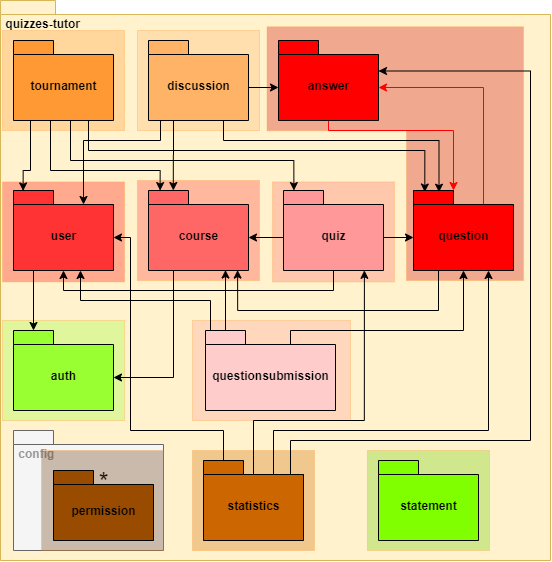
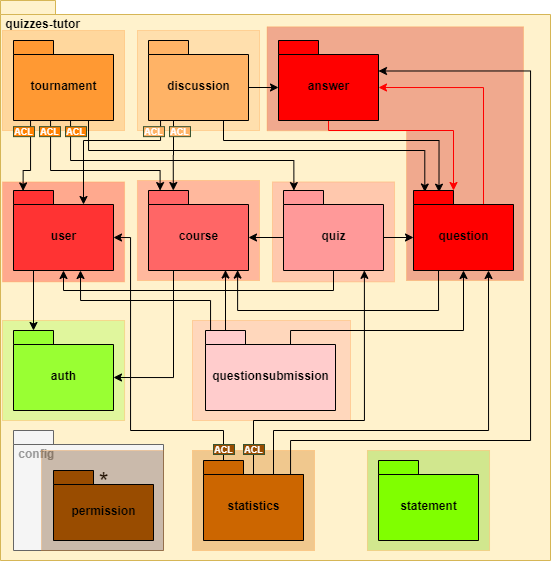
added commodity layer to responsability layers

diff --git a/documentation/module_view_uses.md b/documentation/module_view_uses.md
@@ -108,7 +108,7 @@ Rationale on **Domain Model Integrity** comments, improvements and consideration
   
   <img src="pictures/Uses View Context Map.png" width="500" >
   
-  Fig 2. The proposed Context Map of quizzes-tutor, reflecting the considerations in this section. Each Bounded Context is highlighted in a different color. The color scheme is an attempt to map the Bounded Contexts with the bigger portion of each Subdomain they are a part of (explicit in **DD1.** in the [Decomposition View](module_view_decomposition.md)). Once again, keep in mind that the boundaries between Subdomains don't equate to neither the boundaries between Bounded Contexts, or the boundaries between modules.
+  Fig 2. The proposed Context Map of quizzes-tutor, reflecting the considerations in this section. Each Bounded Context is highlighted in a different color. Anticorruption Layers are represented as small boxes with **ACL** notation. The color scheme is an attempt to map the Bounded Contexts with the bigger portion of each Subdomain they are a part of (explicit in **DD1.** in the [Decomposition View](module_view_decomposition.md)). Once again, keep in mind that the boundaries between Subdomains don't equate to neither the boundaries between Bounded Contexts, or the boundaries between modules.
 
   - **DD1.** 
     - The **question** and **answer** modules should be a part of the same Bounded Context - **question+answer**.

diff --git a/documentation/module_view_layered_responsability.md b/documentation/module_view_layered_responsability.md
@@ -37,6 +37,12 @@ This layer has the following modules:
 - question
 - user
 
+### <span style="color:#0080ff">Commodities</span>
+This layer's responsability is associated with commodities useful for quizzes-tutor, in particular authentication and a mailing system. Other modules present in the [Decomposition View](module_view_decomposition.md) such as the **mailer** or **impexp** may also be seen as commodities, but they do not contain business logic so we're not including them in the responsability layers, as they don't have a responsability towards the business model.
+
+This layer has the following modules:
+- auth
+
 ## Context Diagram
 
 ## Rationale
